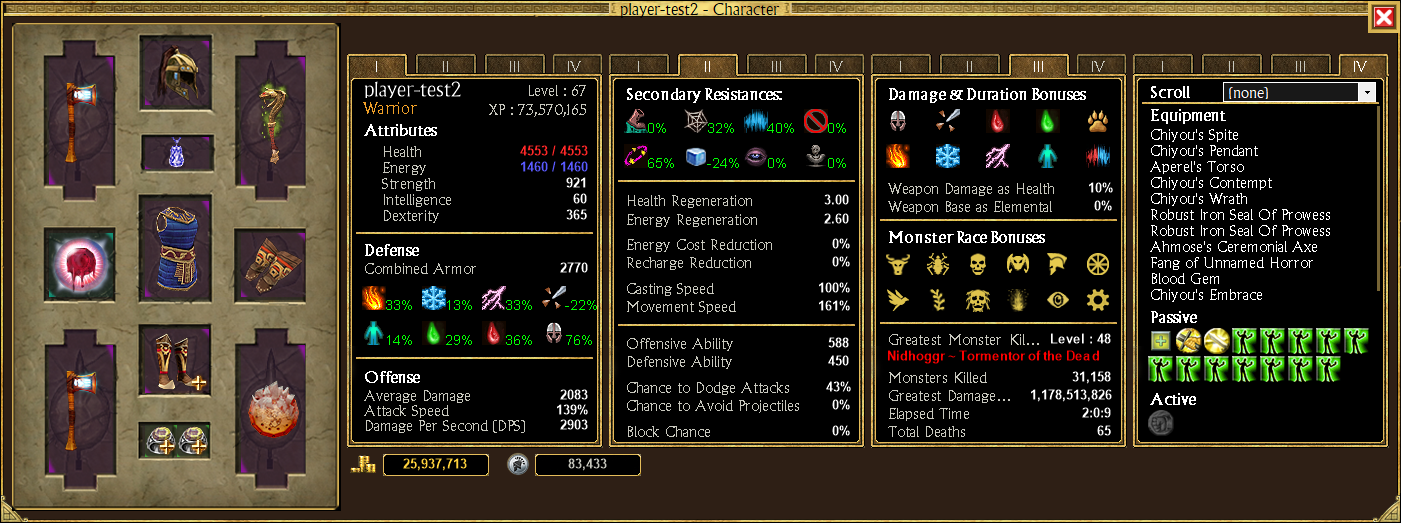
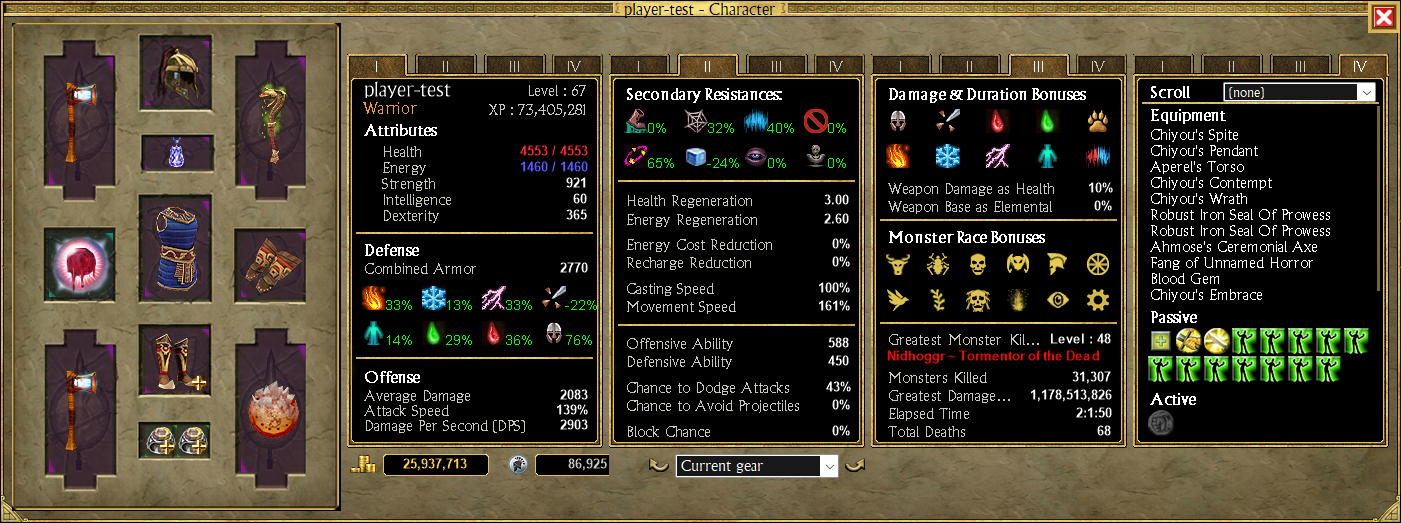
feat(automation): character_window_loadout; docs of the window's loadouts
character_window reports the loadout shown and the loadouts listed;
character_window_loadout selects one or clicks an arrow. CHAREDIT.md covers
Compare, Move to and the loadout list, with a new picture.

Changed region(s): [[0.0, 0.0, 1.0, 1.0]]

diff --git a/src/TQVaultAE.GUI/Automation/Dev/AutomationTools.Dev.CharacterWindows.cs b/src/TQVaultAE.GUI/Automation/Dev/AutomationTools.Dev.CharacterWindows.cs
@@ -28,7 +28,7 @@ internal static partial class AutomationTools
 			});
 
 		[McpServerTool(Name = "character_window", ReadOnly = true)]
-		[Description("Reads the floating character windows: per window the character key, bounds, DPI, scale, read-only, the loaded save's instance id (changes when the file is read again), the equipment panel's id for the item tools (window:<name>, usable with click_cell, cell_info...), the equipped items, the numbers of tabs I to III (attributes, armor, resistances, rows, offense) and the Buffs toggles that are on. full=true adds each panel's whole view. With character, only that window; capture=true also returns it as a PNG (saved under %TEMP%).")]
+		[Description("Reads the floating character windows: per window the character key, bounds, DPI, scale, read-only, the loadout shown in place of the equipment (null: the equipment worn) and the loadouts listed, the loaded save's instance id (changes when the file is read again), the equipment panel's id for the item tools (window:<name>, usable with click_cell, cell_info...), the equipped items, the numbers of tabs I to III (attributes, armor, resistances, rows, offense) and the Buffs toggles that are on. full=true adds each panel's whole view. With character, only that window; capture=true also returns it as a PNG (saved under %TEMP%).")]
 		public static IEnumerable<ContentBlock> CharacterWindow(
 			[Description("The character's key or name; empty for every window.")] string character = "",
 			[Description("true to add each tab's whole view.")] bool full = false,
@@ -51,6 +51,27 @@ internal static partial class AutomationTools
 
 			return AutomationImages.Result(state, png, "characterwindow");
 		}
+
+		[McpServerTool(Name = "character_window_loadout")]
+		[Description("Shows a loadout's pieces, read-only, in place of a floating window's equipment, as its list under tab II does (the statistics follow), or the equipment worn; or turns the list like its arrows (the equipment worn, then each loadout, round). Writes nothing. Returns the window's state (as character_window).")]
+		public static string CharacterWindowLoadout(
+			[Description("The character's key or name.")] string character,
+			[Description("The loadout's name; empty for the equipment worn. Ignored with step.")] string loadout = "",
+			[Description("-1 or +1 to click the previous or next arrow instead; 0 to select by name.")] int step = 0)
+			=> AutomationHost.OnUi(form =>
+			{
+				var window = FindCharacterWindow(form, character);
+				if (step != 0)
+					window.TurnLoadout(Math.Sign(step));
+				else if (string.IsNullOrEmpty(loadout))
+					window.ShowLoadout(null);
+				else if (window.LoadoutNames.FirstOrDefault(n => string.Equals(n, loadout, StringComparison.OrdinalIgnoreCase)) is { } name)
+					window.ShowLoadout(name);
+				else
+					throw new McpException($"No loadout '{loadout}' for {window.Save.Key}: {string.Join(" | ", window.LoadoutNames)}.");
+
+				return Serialize(CharacterWindowState(window, full: false));
+			});
 
 		[McpServerTool(Name = "character_window_close")]
 		[Description("Closes a floating character window as its close button does (the user's close: it is not reopened at the next start). Returns the windows left.")]
@@ -92,6 +113,8 @@ internal static partial class AutomationTools
 				scale = tabs[0].PanelScale,
 				cellSize = window.EquipmentPanel.UnitSize,
 				readOnly = window.Player.IsReadOnly,
+				loadout = window.LoadoutName,
+				loadouts = window.LoadoutNames,
 				panel = AutomationPanels.CharacterWindowPrefix + window.Save.Name,
 				sharedWithMain = ReferenceEquals(window.Player, AutomationHost.MainForm?.AutomationStashPanel?.Player),
 				playerInstance = System.Runtime.CompilerServices.RuntimeHelpers.GetHashCode(window.Player),

diff --git a/src/tests/TQVaultAE.Tests.Win32/Gui/AutomationToolLevelsTests.cs b/src/tests/TQVaultAE.Tests.Win32/Gui/AutomationToolLevelsTests.cs
@@ -41,7 +41,7 @@ public sealed class AutomationToolLevelsTests
 	/// <summary>The developer tools: UI internals, raw input, diagnostics, fault injection.</summary>
 	private static readonly string[] DeveloperTools =
 	[
-		"bag_settings_drag_icon", "bag_settings_hover_icon", "capture_results_menu", "character_buff_toggle", "character_buffs", "character_window", "character_window_close", "character_window_open", "check_list_items", "click_control", "control_tree",
+		"bag_settings_drag_icon", "bag_settings_hover_icon", "capture_results_menu", "character_buff_toggle", "character_buffs", "character_window", "character_window_close", "character_window_loadout", "character_window_open", "check_list_items", "click_control", "control_tree",
 		"control_values", "create_item", "drag_select", "forge_drag_cursor", "forge_hover", "grid_click", "grid_values",
 		"item_properties_dump", "key_binds_dialog", "list_forms", "list_items", "list_keys", "list_state", "load_resource",
 		"mouse_click", "mouse_wheel", "move_window", "open_form", "open_input_dialog", "picture_fault", "player_stats_fonts",

diff --git a/src/TQVaultAE.GUI/Automation/AutomationTools.cs b/src/TQVaultAE.GUI/Automation/AutomationTools.cs
@@ -755,11 +755,14 @@ internal static partial class AutomationTools
 	}
 
 	/// <summary>
-	/// Respects the PlayerReadonly setting, which the equipment panel enforces for real mouse clicks too. A read-only
-	/// character's sack is left to the panel's own rules, which refuse and tell the user (the notification).
+	/// Respects the PlayerReadonly setting, which the equipment panel enforces for real mouse clicks too, and the loadout
+	/// shown read-only in a floating window. A read-only character's sack is left to the panel's own rules, which refuse
+	/// and tell the user (the notification).
 	/// </summary>
 	private static void EnsureWritable(SackPanel panel, string action)
 	{
+		if (panel is CharacterWindowEquipmentPanel { ShowsLoadout: true })
+			throw new McpException($"Cannot {action} the floating window's equipment: it shows a loadout, read-only.");
 		if (panel.ItemsReadOnly && panel.Sack is not { IsReadOnly: true })
 			throw new McpException($"Cannot {action} the equipment panel: the PlayerReadonly setting is on.");
 	}

diff --git a/AGENTS.md b/AGENTS.md
@@ -190,7 +190,7 @@ Debug builds of `TQVaultAE.GUI` host an MCP server inside the app at `http://127
 
 | Purpose | Tools |
 |---|---|
-| Dialog controls | `control_values(form)`, `set_control(form, control, value)`, `click_control(form, control)`, `mouse_click(form, control, x, y, button?, clicks?)` (mouse messages at a point, e.g. a check group box caption; right button with its context menu, double click), `mouse_wheel(form, control, x, y, notches)` (wheel over a point), `open_character_editor` (shows the editor in place of the main content; form `Character Editor`, closed with `close_dialog`), `skill_panel` / `skill_panel_click` / `skill_tooltip` (character editor skill panes), `character_panel` / `character_attribute_click` / `character_tooltip` / `character_stat_sources` (its statistics panel and the sums behind its computed statistics), `character_buffs` / `character_buff_toggle` (Debug: the Buffs tab of the editor's, the main window's or a floating window's panel: sources, toggles, scroll choice), `character_window_open` / `character_window` / `character_window_close` (Debug: floating character windows; equipment panel `window:<name>`), `select_tab`, `grid_values` / `set_grid_cell`, `tag_box` / `list_tags`, `list_items` / `check_list_items` / `grid_click` for check box lists and grids (search dialog, results), `list_keys` / `list_state` (keyboard and width of a check box list), `search_dialog_state` / `search_dialog_scroll` (the Advanced Search dialog's whole user state, kept across zoom changes), `search_tooltip(kind)` (its selected filters and results tool tips), `archive_character`, `character_read_only` (the character menu's *Read-only* toggle and the files' read-only attribute) and `open_mod_link` (mod link dialog): test characters only (`player-test`, `player-mod`); `tag_archive_all(tag, archived)` (test tags `test-`) |
+| Dialog controls | `control_values(form)`, `set_control(form, control, value)`, `click_control(form, control)`, `mouse_click(form, control, x, y, button?, clicks?)` (mouse messages at a point, e.g. a check group box caption; right button with its context menu, double click), `mouse_wheel(form, control, x, y, notches)` (wheel over a point), `open_character_editor` (shows the editor in place of the main content; form `Character Editor`, closed with `close_dialog`), `skill_panel` / `skill_panel_click` / `skill_tooltip` (character editor skill panes), `character_panel` / `character_attribute_click` / `character_tooltip` / `character_stat_sources` (its statistics panel and the sums behind its computed statistics), `character_buffs` / `character_buff_toggle` (Debug: the Buffs tab of the editor's, the main window's or a floating window's panel: sources, toggles, scroll choice), `character_window_open` / `character_window` / `character_window_loadout` / `character_window_close` (Debug: floating character windows; equipment panel `window:<name>`; a loadout shown read-only in place of the equipment), `select_tab`, `grid_values` / `set_grid_cell`, `tag_box` / `list_tags`, `list_items` / `check_list_items` / `grid_click` for check box lists and grids (search dialog, results), `list_keys` / `list_state` (keyboard and width of a check box list), `search_dialog_state` / `search_dialog_scroll` (the Advanced Search dialog's whole user state, kept across zoom changes), `search_tooltip(kind)` (its selected filters and results tool tips), `archive_character`, `character_read_only` (the character menu's *Read-only* toggle and the files' read-only attribute) and `open_mod_link` (mod link dialog): test characters only (`player-test`, `player-mod`); `tag_archive_all(tag, archived)` (test tags `test-`) |
 | Message boxes | `queue_dialog_answers(answers)` answers the next boxes without showing them (`text:<name>` types the next name dialog's text and clicks its OK); `dialog_answers` lists them, and with `--headless` also the boxes that took their default answer and the native dialogs cancelled; `close_dialog` for the others |
 | Windows and dialogs | `list_windows`, `close_form(form)` for a modeless form without buttons (the search results window), `close_dialog` (for example "Default Vault Path" → OK; also the settings, a view of the main window shown by `click_control("", "configureButton")`: "Settings" → OK or Cancel, and the form `Settings` for `control_values`, `set_control`, `click_control`, `control_tree`; the same for the character editor view, "Character Editor"), `list_forms`, `open_form(name, show?)` to create any registered form or dialog, `open_item_dialog(panel, x, y, dialog)` for an item's Properties or Seed dialog, `open_input_dialog(prompt?, title?, value?)` for the text input dialog (character and loadout names), `open_bag_settings(panel, bag?)` for the bag icon picker of a vault bag (its menu's *Change icon*) |
 | Read the state from the app's models | `get_state(panel?)`, which returns characters, vaults, panels and items with their cells; `character_list(refresh?, pick?)` for the character list entries as drawn (class, masteries, mod, badges) and the selected character's box (`pick` clicks an entry like the user); `mod_state` for the active custom map (mod), the loaded databases and each character's mod link; `mod_suggest(character)` for the mod suggestion; `search_containers(filter?)` for the containers of the search database and their items; `select_search_result(container, x?, y?)` shows a search result like the results dialog; `find_copies(panel, x, y, kind)` runs the item menu's *Search* (SameSeed, AllCopies, SameBase, SamePrefix, SameSuffix) and reads the results window it opens (title, rows, the source first); `results_move(action, rows?, path?, menu?)` selects its rows and clicks its *Move To* / *Undo* entries (`capture_results_menu` renders its menus); `player_info` for the player information panel as displayed, with the attributes the item requirements are checked against (`player_stats_hover(tab, index)` hovers one of its rollovers and reports where the tool tip lands); `player_stats_fonts` for its fonts; `stash_background_switch(bag)` to check that the stash backgrounds replaced at a tab switch are disposed; `owned_skill_items` for every owned item that grants a skill; `raw_tooltip_lines` for the tooltip lines still shown raw; `tooltip_text_dump(path, views)` for the rows of every item tooltip as rendered (text, color, bold, kind), written to a JSON file to diff; `item_properties_dump(path)` for the sections of the Item Properties dialog of every item; `compare_items(panel, x, y, x2, y2, panel2?, path?, keepOpen?, alignRows?, hideUnchanged?, showSources?, toggle?, height?, scroll?)` for the four columns of an item comparison (rows and a PNG; it opens like the user's Compare, in a new modeless window, closed at the end unless `keepOpen`; `toggle` clicks stats open or closed to show their sources; `height` and `scroll` resize it and scroll its columns with real scroll messages); `compare_click(panel, x, y, button?)` for the second click of the compare selection started by the item menu's `Compare` (opens a new comparison window beside the others); `comparison_windows(action?, index?)` lists the comparison windows open, or closes one or all; `search_entries(baseItemId)` for the search database entries of one base item, with each entry's place and mod (`mod`, `containerMod`); `game_text(tags)` translates text tags; `load_resource(resourceIds)` loads resources like the app |

diff --git a/documentation/AUTOMATION.md b/documentation/AUTOMATION.md
@@ -118,7 +118,7 @@ Developer tools are marked *(Debug)*; the others are user tools, served by Relea
     `raw_tooltip_lines`, `tooltip_text_dump`, `item_properties_dump`;
   - item menu flows: `socket_click`;
   - the statistics panels' Buffs tab: `character_buffs`, `character_buff_toggle`;
-  - floating character windows: `character_window_open`, `character_window`, `character_window_close`;
+  - floating character windows: `character_window_open`, `character_window`, `character_window_loadout`, `character_window_close`;
   - test aids: `create_item`, `picture_fault`, the `gameRunning` and `realGame` parameters of `loadouts`;
   - the headless mode.
 
@@ -681,8 +681,10 @@ General rules:
   - `character_window_open(character, x?, y?)`: opens the window of a listed character (key, name or drop-down label),
     or brings it to the front; `x`/`y` place it as a window reopened at start. Writes nothing.
   - `character_window(character?, full?, capture?)`: per window the key, bounds, DPI, scale, cell size, read-only,
-    `sharedWithMain`, the equipped items, the numbers of tabs I-III and the buff keys on; `saved` lists the places
+    `loadout` shown (null: the equipment worn) and `loadouts` listed, `sharedWithMain`, the equipped items, the numbers of tabs I-III and the buff keys on; `saved` lists the places
     kept in `UserConfig.xml`. `full=true` adds each panel's view, `capture=true` a PNG.
+  - `character_window_loadout(character, loadout?, step?)`: shows a loadout's pieces read-only in place of the equipment
+    (empty: the equipment worn), or `step=-1/+1` clicks an arrow. Writes nothing.
   - `character_window_close(character)`: closes it as its close button (not reopened at start).
   - Its equipment is panel `window:<name>` for the item tools (`pick_item`, `drop_item`, `get_state`, `capture`...);
     `character_buffs` / `character_buff_toggle` take `panel="window:<name>"`.

diff --git a/documentation/CHAREDIT.md b/documentation/CHAREDIT.md
@@ -29,6 +29,9 @@ every number at once.
 - Its buff toggles are its own, in memory only, as in tab IV.
 - Drag items between the window and the main window (inventory, stash, vaults), with the usual rules: a read-only
   character or *Player read-only* refuses changes. TQVault's **Save** writes them.
+- Item menu: **Compare** with any item of either window; **Move Item To** the vault shown or the transfer stash.
+- Under tab II, the list and its arrows show a loadout in place of the equipment, read-only, with its statistics.
+  **Current gear** shows the equipment worn again.
 - The main window and the window show each other's changes when they show the same character.
 - Open windows reopen at the next start, where they were. They follow the zoom and the DPI of their monitor.
 
